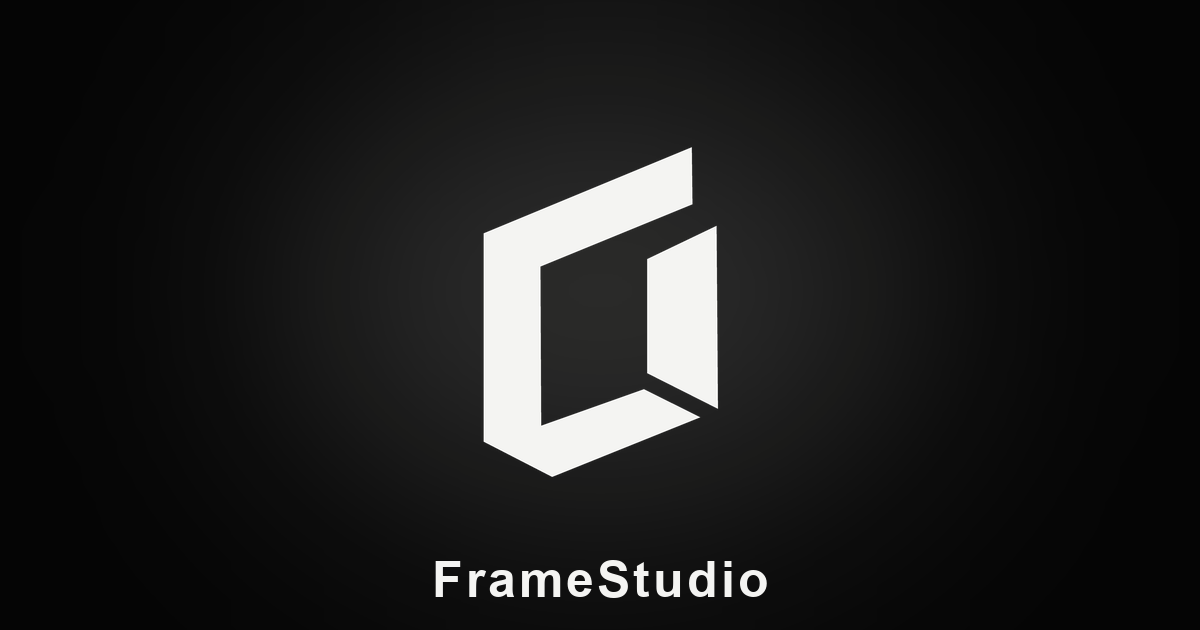
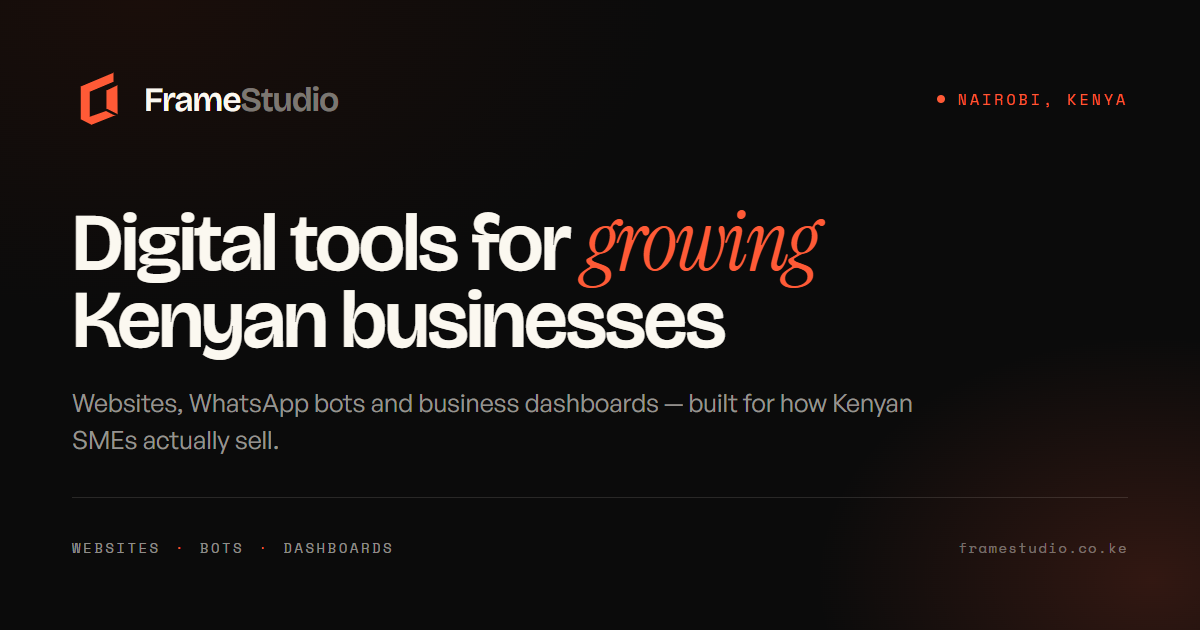
fix(seo): crawlable link previews, working prerender, branded share card
Social crawlers never run JS, so the og/twitter tags now live in index.html; pages keep only title, description and canonical to avoid duplicate tags (duplicates had made every tab read FrameStudio and every canonical point at the homepage).

prerender.js now falls back to a system Chrome and prints a visible banner when it skips, instead of quietly deploying the empty shell. Verified 24/24 routes with real head tags.

New 1200x630 og-image rendered from scripts/og-card.html (npm run og) in the vermilion identity.

diff --git a/scripts/og-card.html b/scripts/og-card.html
@@ -1,0 +1,126 @@
+<!doctype html>
+<html lang="en">
+  <head>
+    <meta charset="utf-8" />
+    <link rel="preconnect" href="https://api.fontshare.com" crossorigin />
+    <link rel="preconnect" href="https://fonts.googleapis.com" />
+    <link rel="preconnect" href="https://fonts.gstatic.com" crossorigin />
+    <link href="https://api.fontshare.com/v2/css?f[]=general-sans@400,500,600&display=swap" rel="stylesheet" />
+    <link href="https://fonts.googleapis.com/css2?family=Bricolage+Grotesque:opsz,wght@12..96,400..800&family=Instrument+Serif:ital@0;1&family=Space+Mono:wght@400;700&display=swap" rel="stylesheet" />
+    <style>
+      /* 1200 x 630 Open Graph card. Keep every word inside 72px of padding:
+         WhatsApp and LinkedIn crop toward the edges on some clients. */
+      * { margin: 0; padding: 0; box-sizing: border-box; }
+      html, body { width: 1200px; height: 630px; }
+      body {
+        background: #0b0b0b;
+        color: #fbf8f0;
+        font-family: 'General Sans', system-ui, sans-serif;
+        -webkit-font-smoothing: antialiased;
+        overflow: hidden;
+        display: flex;
+        flex-direction: column;
+        justify-content: space-between;
+        padding: 72px;
+        position: relative;
+      }
+      .glow {
+        position: absolute;
+        inset: 0;
+        background:
+          radial-gradient(70% 80% at 12% 0%, #1a0e0a 0%, rgba(11, 11, 11, 0) 62%),
+          radial-gradient(40% 55% at 96% 92%, rgba(255, 90, 54, 0.16) 0%, rgba(11, 11, 11, 0) 70%);
+      }
+      .top, .bottom { position: relative; display: flex; align-items: center; justify-content: space-between; }
+      .brand { display: flex; align-items: center; gap: 18px; }
+      .brand svg { width: 54px; height: 54px; color: #ff5a36; }
+      .brand .name {
+        font-family: 'Bricolage Grotesque', sans-serif;
+        font-size: 34px;
+        font-weight: 600;
+        letter-spacing: -0.03em;
+      }
+      .brand .name span { color: rgba(251, 248, 240, 0.45); }
+      .eyebrow {
+        font-family: 'Space Mono', monospace;
+        font-size: 15px;
+        letter-spacing: 0.2em;
+        text-transform: uppercase;
+        color: #ff5a36;
+        display: flex;
+        align-items: center;
+        gap: 12px;
+      }
+      .eyebrow i { width: 8px; height: 8px; border-radius: 999px; background: #ff5a36; display: inline-block; }
+      .middle { position: relative; padding-bottom: 4px; }
+      h1 {
+        font-family: 'Bricolage Grotesque', sans-serif;
+        font-weight: 600;
+        font-size: 82px;
+        line-height: 0.94;
+        letter-spacing: -0.035em;
+        max-width: 1000px;
+      }
+      h1 em {
+        font-family: 'Instrument Serif', Georgia, serif;
+        font-style: italic;
+        font-weight: 400;
+        color: #ff5a36;
+        font-size: 1.04em;
+      }
+      .sub {
+        margin-top: 26px;
+        font-size: 25px;
+        line-height: 1.45;
+        color: rgba(251, 248, 240, 0.58);
+        max-width: 860px;
+      }
+      .bottom .tags {
+        font-family: 'Space Mono', monospace;
+        font-size: 14px;
+        letter-spacing: 0.18em;
+        text-transform: uppercase;
+        color: rgba(251, 248, 240, 0.55);
+        display: flex;
+        gap: 14px;
+        align-items: center;
+      }
+      .bottom .tags b { color: #ff5a36; font-weight: 400; }
+      .bottom .url {
+        font-family: 'Space Mono', monospace;
+        font-size: 14px;
+        letter-spacing: 0.1em;
+        color: rgba(251, 248, 240, 0.4);
+      }
+      .rule { position: absolute; left: 72px; right: 72px; bottom: 132px; height: 1px; background: rgba(251, 248, 240, 0.12); }
+    </style>
+  </head>
+  <body>
+    <div class="glow"></div>
+
+    <div class="top">
+      <div class="brand">
+        <svg viewBox="250 140 750 1050" aria-hidden="true">
+          <polygon points="770,500 983,398 987,959 770,850" fill="currentColor" />
+          <polygon points="269,421 907,157 909,332 443,523 445,1011 760,899 933,985 479,1168 269,1060" fill="currentColor" />
+        </svg>
+        <div class="name">Frame<span>Studio</span></div>
+      </div>
+      <div class="eyebrow"><i></i> Nairobi, Kenya</div>
+    </div>
+
+    <div class="middle">
+      <h1>Digital tools for <em>growing</em> Kenyan businesses</h1>
+      <p class="sub">Websites, WhatsApp bots and business dashboards — built for how Kenyan SMEs actually sell.</p>
+    </div>
+
+    <div class="rule"></div>
+
+    <div class="bottom">
+      <div class="tags">
+        Websites <b>·</b> Bots <b>·</b> Dashboards
+      </div>
+      <div class="url">framestudio.co.ke</div>
+    </div>
+  </body>
+</html>

diff --git a/prerender.js b/prerender.js
@@ -201,19 +201,60 @@ async function prerender() {
 
   console.log('Launching Puppeteer...')
   let browser
+  let launchError
   try {
     browser = await puppeteer.launch({
       headless: true,
       args: ['--no-sandbox', '--disable-setuid-sandbox'],
     })
   } catch (err) {
-    console.warn(`Puppeteer could not launch a browser (${err.message}). Skipping prerender; serving SPA fallback.`)
+    launchError = err
+    // Vercel's build image often cannot launch the browser Puppeteer downloaded,
+    // even after `puppeteer browsers install chrome`. Try a system binary before
+    // giving up, so a deploy can still ship real HTML.
+    const candidates = [
+      process.env.PUPPETEER_EXECUTABLE_PATH,
+      '/usr/bin/google-chrome',
+      '/usr/bin/chromium',
+      '/usr/bin/chromium-browser',
+      'C:/Program Files/Google/Chrome/Application/chrome.exe',
+      'C:/Program Files (x86)/Microsoft/Edge/Application/msedge.exe',
+    ].filter(Boolean)
+
+    for (const executablePath of candidates) {
+      try {
+        browser = await puppeteer.launch({
+          headless: true,
+          executablePath,
+          args: ['--no-sandbox', '--disable-setuid-sandbox', '--disable-dev-shm-usage'],
+        })
+        console.log(`  launched with ${executablePath}`)
+        break
+      } catch {
+        // try the next candidate
+      }
+    }
+  }
+
+  if (!browser) {
+    // Loud on purpose: a skipped prerender used to only emit a warning, so
+    // deploys shipped an empty shell (no title, no OG tags) for weeks.
+    console.error('')
+    console.error('==================================================================')
+    console.error('  PRERENDER SKIPPED — deploying SPA shell for every route.')
+    console.error('  Link previews and crawlable HTML will fall back to the static')
+    console.error('  tags in index.html.')
+    console.error(`  Reason: ${launchError?.message}`)
+    console.error('  On Vercel: set PUPPETEER_EXECUTABLE_PATH, or install the')
+    console.error('  system Chrome/Chromium the build image expects.')
+    console.error('==================================================================')
+    console.error('')
     server.close()
     writeSitemap(blogPosts, projectPosts)
-    console.log('Prerender skipped.')
     return
   }
 
+  let written = 0
   for (const route of allRoutes) {
     console.log(`Prerendering ${route}...`)
     const page = await browser.newPage()
@@ -248,6 +289,7 @@ async function prerender() {
 
       fs.mkdirSync(path.dirname(outputPath), { recursive: true })
       fs.writeFileSync(outputPath, html)
+      written++
       console.log(`  -> ${path.relative(distDir, outputPath)}`)
     } catch (err) {
       console.error(`  Failed: ${err.message}`)
@@ -260,6 +302,16 @@ async function prerender() {
   server.close()
 
   writeSitemap(blogPosts, projectPosts)
+
+  // A prerender that "succeeds" without writing anything is the exact failure
+  // that shipped an empty shell for weeks. Say it out loud in the build log.
+  const samplePath = path.join(distDir, 'pricing', 'index.html')
+  const sampleHtml = fs.existsSync(samplePath) ? fs.readFileSync(samplePath, 'utf8') : ''
+  if (written > 0 && /<title>/i.test(sampleHtml)) {
+    console.log(`[prerender] ${written}/${allRoutes.length} routes written with real head tags ✓`)
+  } else {
+    console.error(`[prerender] WARNING: only ${written}/${allRoutes.length} routes written — crawlers may get the shell.`)
+  }
 
   console.log('Prerendering complete!')
 }

diff --git a/index.html b/index.html
@@ -12,7 +12,27 @@
     <link rel="apple-touch-icon" sizes="180x180" href="/apple-touch-icon.png" />
     <link rel="manifest" href="/site.webmanifest" />
     <link rel="icon" type="image/x-icon" sizes="any" href="/favicon.ico" />
-    <meta name="theme-color" content="#000000" />
+    <meta name="theme-color" content="#0b0b0b" />
+
+    <!-- Link previews. These live in the shell on purpose: social crawlers do
+         not run JavaScript, so anything rendered by React is invisible to them.
+         This block is the safety net when prerendering fails.
+         Deliberately NOT here: title, meta description, canonical and og:url.
+         Pages own those; a static copy here would emit duplicates and win. -->
+    <meta property="og:type" content="website" />
+    <meta property="og:site_name" content="FrameStudio" />
+    <meta property="og:locale" content="en_KE" />
+    <meta property="og:title" content="FrameStudio — Digital Solutions for Kenyan Businesses" />
+    <meta property="og:description" content="Websites, WhatsApp bots, and business dashboards for Kenyan SMEs. M-Pesa integration, real-time inventory, automated customer replies." />
+    <meta property="og:image" content="https://www.framestudio.co.ke/og-image.png" />
+    <meta property="og:image:type" content="image/png" />
+    <meta property="og:image:width" content="1200" />
+    <meta property="og:image:height" content="630" />
+    <meta property="og:image:alt" content="FrameStudio — websites, bots and dashboards for Kenyan businesses" />
+    <meta name="twitter:card" content="summary_large_image" />
+    <meta name="twitter:title" content="FrameStudio — Digital Solutions for Kenyan Businesses" />
+    <meta name="twitter:description" content="Websites, WhatsApp bots, and business dashboards for Kenyan SMEs." />
+    <meta name="twitter:image" content="https://www.framestudio.co.ke/og-image.png" />
 
     <link rel="preconnect" href="https://api.fontshare.com" crossorigin />
     <link rel="preconnect" href="https://fonts.googleapis.com" />

diff --git a/src/pages/Home.jsx b/src/pages/Home.jsx
@@ -39,16 +39,6 @@ export default function Home() {
     <>
       <title>FrameStudio — Digital Solutions for Kenyan Businesses</title>
         <meta name="description" content="FrameStudio builds websites, WhatsApp bots, and business dashboards for growing Kenyan businesses. Affordable, mobile-friendly, built for Kenya." />
-        <meta property="og:title" content="FrameStudio — Digital Solutions for Kenyan Businesses" />
-        <meta property="og:image" content="https://www.framestudio.co.ke/og-image.png" />
-        <meta property="og:image:width" content="1200" />
-        <meta property="og:image:height" content="630" />
-        <meta property="og:image:alt" content="FrameStudio portal logo on a black background" />
-        <meta property="og:description" content="Websites, WhatsApp bots, and business dashboards for Kenyan SMEs. M-Pesa integration, real-time inventory, automated customer replies." />
-        <meta property="og:url" content="https://www.framestudio.co.ke/" />
-        <meta property="og:type" content="website" />
-        <meta name="twitter:card" content="summary_large_image" />
-        <meta name="twitter:image" content="https://www.framestudio.co.ke/og-image.png" />
         <link rel="canonical" href="https://www.framestudio.co.ke/" />
         <script type="application/ld+json">{JSON.stringify(siteSchema)}</script>
         <script type="application/ld+json">{JSON.stringify(orgSchema)}</script>

diff --git a/src/pages/Services.jsx b/src/pages/Services.jsx
@@ -61,13 +61,6 @@ export default function Services() {
     <>
         <title>Services — FrameStudio | Websites, Bots & Dashboards for Kenyan SMEs</title>
         <meta name="description" content="FrameStudio builds modern websites, automation bots, and business dashboards for Kenyan businesses. Affordable, mobile-friendly, M-Pesa integration, and built for Kenya." />
-        <meta property="og:title" content="Services — FrameStudio" />
-        <meta property="og:image" content="https://www.framestudio.co.ke/og-image.png" />
-        <meta name="twitter:image" content="https://www.framestudio.co.ke/og-image.png" />
-        <meta property="og:description" content="Websites, automation bots, and business dashboards for Kenyan SMEs." />
-        <meta property="og:url" content="https://www.framestudio.co.ke/services" />
-        <meta property="og:type" content="website" />
-        <meta name="twitter:card" content="summary_large_image" />
         <link rel="canonical" href="https://www.framestudio.co.ke/services" />
 
       <section className="relative pt-28 pb-20 md:pt-36 md:pb-24 bg-ink overflow-hidden">

diff --git a/src/pages/Pricing.jsx b/src/pages/Pricing.jsx
@@ -86,13 +86,6 @@ export default function Pricing() {
     <>
         <title>Pricing — FrameStudio | Affordable Digital Solutions for Kenyan SMEs</title>
         <meta name="description" content="Transparent pricing for Kenyan SMEs. Websites from KSh 15,000, WhatsApp bots from KSh 25,000, dashboards from KSh 10,000. No hidden fees." />
-        <meta property="og:title" content="Pricing — FrameStudio" />
-        <meta property="og:image" content="https://www.framestudio.co.ke/og-image.png" />
-        <meta name="twitter:image" content="https://www.framestudio.co.ke/og-image.png" />
-        <meta property="og:description" content="Transparent pricing for Kenyan SMEs. Websites, WhatsApp bots, and dashboards at affordable rates." />
-        <meta property="og:url" content="https://www.framestudio.co.ke/pricing" />
-        <meta property="og:type" content="website" />
-        <meta name="twitter:card" content="summary_large_image" />
         <link rel="canonical" href="https://www.framestudio.co.ke/pricing" />
 
       <section className="relative pt-28 pb-20 md:pt-36 md:pb-24 bg-ink overflow-hidden">

diff --git a/src/pages/Blog.jsx b/src/pages/Blog.jsx
@@ -121,13 +121,6 @@ export default function Blog() {
     <>
         <title>The FrameStudio Journal — Builders' Notes, Guides & Kenya Tech</title>
         <meta name="description" content="Build notes, honest guides, and on-the-ground insight from FrameStudio. Websites, WhatsApp bots, dashboards, and going digital in Kenya." />
-        <meta property="og:title" content="The FrameStudio Journal" />
-        <meta property="og:image" content="https://www.framestudio.co.ke/og-image.png" />
-        <meta name="twitter:image" content="https://www.framestudio.co.ke/og-image.png" />
-        <meta property="og:description" content="Build notes, honest guides, and on-the-ground insight from FrameStudio." />
-        <meta property="og:url" content="https://www.framestudio.co.ke/blog" />
-        <meta property="og:type" content="website" />
-        <meta name="twitter:card" content="summary_large_image" />
         <link rel="canonical" href="https://www.framestudio.co.ke/blog" />
 
       <section ref={heroRef} className="relative pt-28 pb-16 md:pt-40 md:pb-24 bg-ink overflow-hidden">

diff --git a/src/pages/FAQ.jsx b/src/pages/FAQ.jsx
@@ -66,13 +66,6 @@ export default function FAQ() {
     <>
         <title>FAQ — FrameStudio | Frequently Asked Questions</title>
         <meta name="description" content="Frequently asked questions about FrameStudio's services, pricing, timelines, M-Pesa payments, and ongoing support for Kenyan businesses." />
-        <meta property="og:title" content="FAQ — FrameStudio" />
-        <meta property="og:image" content="https://www.framestudio.co.ke/og-image.png" />
-        <meta name="twitter:image" content="https://www.framestudio.co.ke/og-image.png" />
-        <meta property="og:description" content="Everything you need to know about working with FrameStudio. Pricing, timelines, M-Pesa, and support." />
-        <meta property="og:url" content="https://www.framestudio.co.ke/faq" />
-        <meta property="og:type" content="website" />
-        <meta name="twitter:card" content="summary_large_image" />
         <link rel="canonical" href="https://www.framestudio.co.ke/faq" />
 
       <section className="relative pt-28 pb-20 md:pt-36 md:pb-24 bg-ink overflow-hidden">

diff --git a/src/pages/Contact.jsx b/src/pages/Contact.jsx
@@ -80,13 +80,6 @@ export default function Contact() {
     <>
       <title>Contact — FrameStudio | Get in Touch</title>
       <meta name="description" content="Get in touch with FrameStudio. Nairobi-based digital agency building websites, WhatsApp bots, and dashboards. Start your project with our guided enquiry wizard." />
-      <meta property="og:title" content="Contact — FrameStudio" />
-      <meta property="og:image" content="https://www.framestudio.co.ke/og-image.png" />
-      <meta name="twitter:image" content="https://www.framestudio.co.ke/og-image.png" />
-      <meta property="og:description" content="Guided enquiry wizard — choose your plan, enter your details, and send your message." />
-      <meta property="og:url" content="https://www.framestudio.co.ke/contact" />
-      <meta property="og:type" content="website" />
-      <meta name="twitter:card" content="summary_large_image" />
       <link rel="canonical" href="https://www.framestudio.co.ke/contact" />
 
       <section className="relative pt-28 pb-20 md:pt-36 md:pb-24 bg-ink overflow-hidden">

diff --git a/src/pages/Terms.jsx b/src/pages/Terms.jsx
@@ -80,13 +80,6 @@ export default function Terms() {
     <>
         <title>Terms of Service — FrameStudio</title>
         <meta name="description" content="FrameStudio's Terms of Service governing website design, WhatsApp bot development, dashboard projects, payments, and delivery for Kenyan businesses." />
-        <meta property="og:title" content="Terms of Service — FrameStudio" />
-        <meta property="og:image" content="https://www.framestudio.co.ke/og-image.png" />
-        <meta name="twitter:image" content="https://www.framestudio.co.ke/og-image.png" />
-        <meta property="og:description" content="Terms of Service for FrameStudio's digital solutions, payments, and project delivery." />
-        <meta property="og:url" content="https://www.framestudio.co.ke/terms" />
-        <meta property="og:type" content="website" />
-        <meta name="twitter:card" content="summary_large_image" />
         <link rel="canonical" href="https://www.framestudio.co.ke/terms" />
       <PolicyLayout title="Terms of Service">
       {sections.map((s, i) => (

diff --git a/src/pages/Privacy.jsx b/src/pages/Privacy.jsx
@@ -64,13 +64,6 @@ export default function Privacy() {
     <>
         <title>Privacy Policy — FrameStudio</title>
         <meta name="description" content="FrameStudio's Privacy Policy. How we handle personal data in compliance with the Kenya Data Protection Act 2019. Nairobi-based digital agency." />
-        <meta property="og:title" content="Privacy Policy — FrameStudio" />
-        <meta property="og:image" content="https://www.framestudio.co.ke/og-image.png" />
-        <meta name="twitter:image" content="https://www.framestudio.co.ke/og-image.png" />
-        <meta property="og:description" content="How FrameStudio handles your data in compliance with the Kenya Data Protection Act 2019." />
-        <meta property="og:url" content="https://www.framestudio.co.ke/privacy" />
-        <meta property="og:type" content="website" />
-        <meta name="twitter:card" content="summary_large_image" />
         <link rel="canonical" href="https://www.framestudio.co.ke/privacy" />
       <PolicyLayout title="Privacy Policy">
       {sections.map((s, i) => (

diff --git a/src/pages/Refund.jsx b/src/pages/Refund.jsx
@@ -5,13 +5,6 @@ export default function Refund() {
     <>
       <title>Refund Policy — FrameStudio</title>
       <meta name="description" content="FrameStudio's refund and cancellation policy. Information about deposits, milestone payments, and refund terms for digital services." />
-      <meta property="og:title" content="Refund Policy — FrameStudio" />
-      <meta property="og:image" content="https://www.framestudio.co.ke/og-image.png" />
-      <meta name="twitter:image" content="https://www.framestudio.co.ke/og-image.png" />
-      <meta property="og:description" content="Refund policy for FrameStudio's digital services and project payments." />
-      <meta property="og:url" content="https://www.framestudio.co.ke/refund" />
-      <meta property="og:type" content="website" />
-      <meta name="twitter:card" content="summary_large_image" />
       <link rel="canonical" href="https://www.framestudio.co.ke/refund" />
       <PolicyLayout title="Refund & Cancellation Policy">
         <p className="text-ink-soft">
